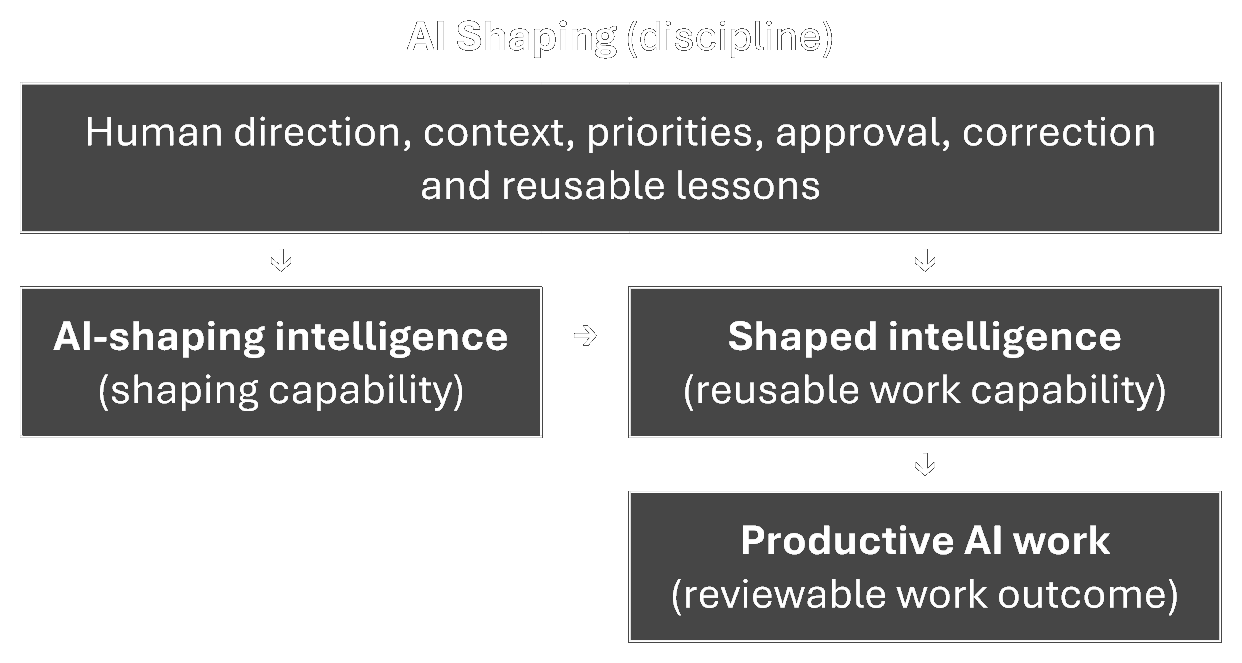
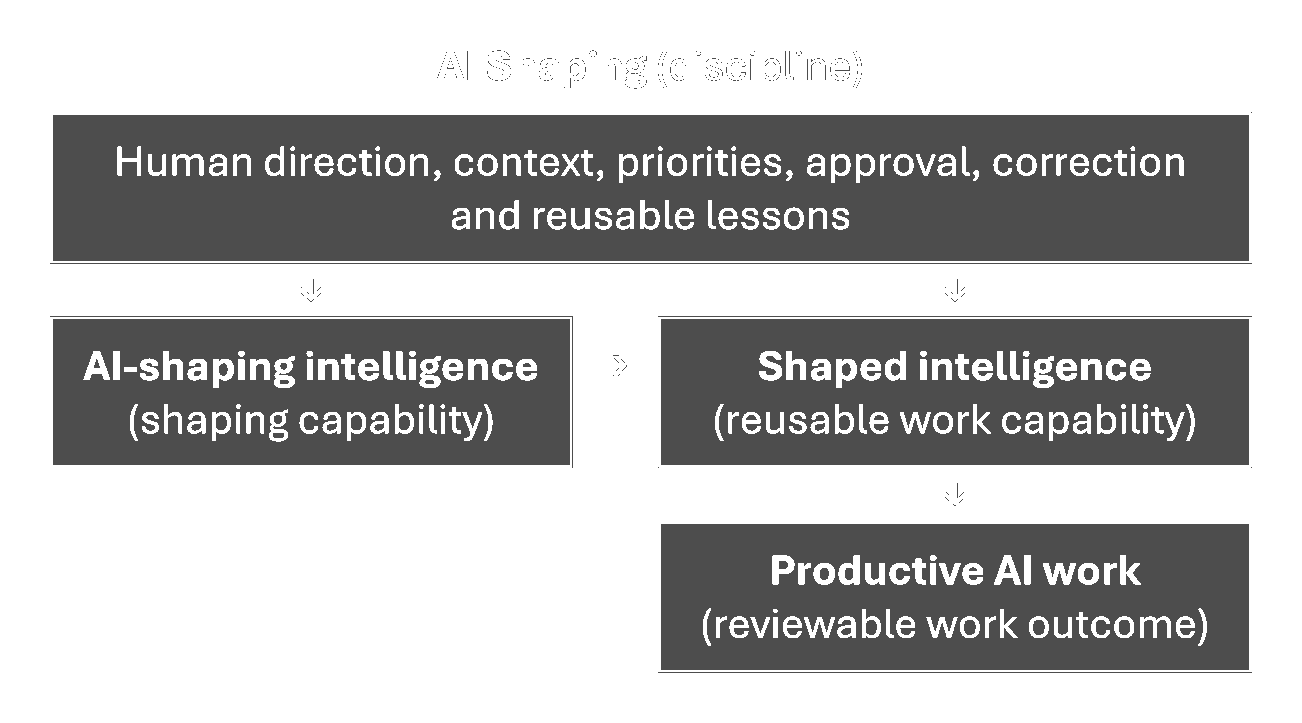
Refresh transparent diagrams and add project-managing burden-shift diagrams

diff --git a/project-managing-shaped-intelligence/index.html b/project-managing-shaped-intelligence/index.html
@@ -85,6 +85,17 @@
 </section>
 
 <section class="section">
+  <h2>Before/after burden-shift pattern</h2>
+  <figure class="concept-diagram">
+    <picture>
+      <source srcset="/assets/images/project-managing-shaped-intelligence-work-burden-shift-diagram-dark-transparent.png" media="(prefers-color-scheme: dark)">
+      <img src="/assets/images/project-managing-shaped-intelligence-work-burden-shift-diagram-light-transparent.png" width="1837" height="2048" alt="Diagram comparing project work without and with project-managing shaped intelligence. Without it, the human repeatedly reads messy project input, forms records, gaps, risks and options, reviews and decides, and produces, checks and resumes work. With it, shaped intelligence carries more of the records, gaps, risks, options, production, checking and resumption work while the human continues to review and decide." loading="lazy" decoding="async">
+    </picture>
+    <figcaption>Project-managing shaped intelligence makes the before/after burden-shift pattern easier to see: more of the recurring reconstruction, project-state, review-state and resumption burden moves to shaped intelligence, while human review, judgement, approval, escalation, communication and real-world action remain human-owned.</figcaption>
+  </figure>
+</section>
+
+<section class="section">
   <h2>What it carries</h2>
   <table>
     <thead><tr><th>Work component</th><th>Plain-English meaning</th></tr></thead>

diff --git a/ai-shaping/index.html b/ai-shaping/index.html
@@ -78,7 +78,7 @@
   <figure class="concept-diagram">
     <picture>
       <source srcset="/assets/images/ai-shaping-concept-stack-diagram-dark-transparent.png" media="(prefers-color-scheme: dark)">
-      <img src="/assets/images/ai-shaping-concept-stack-diagram-light-transparent.png" width="1242" height="663" alt="Diagram showing AI shaping as a discipline where human direction, context, priorities, approval, correction and reusable lessons guide AI-shaping intelligence, which shapes reusable work capability and supports productive AI work." loading="lazy" decoding="async">
+      <img src="/assets/images/ai-shaping-concept-stack-diagram-light-transparent.png" width="1302" height="723" alt="Diagram showing AI shaping as a discipline where human direction, context, priorities, approval, correction and reusable lessons guide AI-shaping intelligence, which shapes reusable work capability and supports productive AI work." loading="lazy" decoding="async">
     </picture>
     <figcaption>AI shaping uses human direction, context, priorities, approval, correction and reusable lessons to shape AI capability into reusable work capability and productive AI work.</figcaption>
   </figure>

diff --git a/index.html b/index.html
@@ -127,7 +127,7 @@
   <figure class="concept-diagram">
     <picture>
       <source srcset="/assets/images/ai-shaping-concept-stack-diagram-dark-transparent.png" media="(prefers-color-scheme: dark)">
-      <img src="/assets/images/ai-shaping-concept-stack-diagram-light-transparent.png" width="1242" height="663" alt="Diagram showing AI shaping as a discipline where human direction, context, priorities, approval, correction and reusable lessons guide AI-shaping intelligence, which shapes reusable work capability and supports productive AI work." loading="lazy" decoding="async">
+      <img src="/assets/images/ai-shaping-concept-stack-diagram-light-transparent.png" width="1302" height="723" alt="Diagram showing AI shaping as a discipline where human direction, context, priorities, approval, correction and reusable lessons guide AI-shaping intelligence, which shapes reusable work capability and supports productive AI work." loading="lazy" decoding="async">
     </picture>
     <figcaption>The map separates the discipline, the shaping capability, the reusable work capability and the human-directed work outcome.</figcaption>
   </figure>